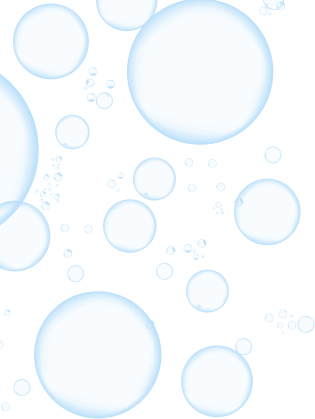
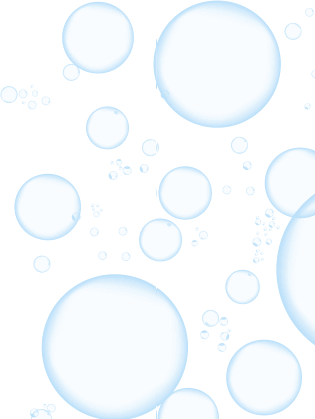
the rest of about sections are done

diff --git a/pages/about.html b/pages/about.html
@@ -11,6 +11,8 @@
         rel="stylesheet">
     <link rel="stylesheet" href="../assets/libs/bootstrap/css/bootstrap.min.css">
     <link rel="stylesheet" href="../assets/libs/font-awesome/css/all.min.css">
+    <link href="https://fonts.googleapis.com/icon?family=Material+Icons+Outlined" rel="stylesheet">
+
     <link rel="stylesheet" href="../general.css">
     <link rel="stylesheet" href="../assets/styles/about.css">
     <title>Blog Details</title>
@@ -18,7 +20,7 @@
 
 <body>
     <!-- know about us section start -->
-    <section class="know-about-us d-flex justify-content-center">
+    <section class="know-about-us d-flex justify-content-center col-12">
         <div class="container">
             <div class="row">
                 <div class="col-12 col-md-6 p-5">
@@ -60,7 +62,7 @@
 
 
                     <div>
-                        <img src="../assets/images/cleaning-img.jpg" alt="cleaning person" srcset="">
+                        <img src="../assets/images/cleaning-img.jpg" alt="cleaning person" srcset="" class="w-100">
                     </div>
                 </div>
             </div>
@@ -68,7 +70,7 @@
     </section>
     <!-- know about us section end -->
     <!-- features section start -->
-    <section class="features ">
+    <section class="features col-12">
         <div class="container d-flex justify-content-center p-5 flex-wrap">
             <div class="col-12 col-lg-4 d-flex justify-content-center align-items-center p-1">
                 <div class="features-card text-center p-5">
@@ -102,6 +104,153 @@
         </div>
     </section>
     <!-- features section end -->
+    <!-- our working experts section start -->
+    <section class="our-working-experts col-12">
+        <div class="container d-flex justify-content-center flex-wrap">
+            <div class="col-12 col-lg-4 d-flex justify-content-center">
+                <div class="d-flex justify-content-center text-center overflow-hidden flex-column p-2 ">
+
+                    <div class="image-container">
+                        <div class="bubble-overlay"></div>
+                        <div class="img-hide overflow-hidden">
+
+                            <img src="../assets/images/team1.png" alt="Person" class="person-image">
+                        </div>
+                    </div>
+                    <h5>worker</h5>
+                    <p>bla bla bla</p>
+                    <div class="d-flex justify-content-center">
+
+                        <i class="fa-brands fa-facebook"></i>
+                        <i class="fa-brands fa-twitter"></i>
+                        <i class="fa-brands fa-linkedin-in"></i>
+                        <i class="fa-brands fa-pinterest"></i>
+                    </div>
+                </div>
+            </div>
+
+            <div class="col-12 col-lg-4 d-flex justify-content-center ">
+                <div class="d-flex justify-content-center text-center overflow-hidden flex-column p-2 ">
+
+                    <div class="image-container">
+                        <div class="bubble-overlay"></div>
+                        <div class="img-hide overflow-hidden">
+
+                            <img src="../assets/images/team1.png" alt="Person" class="person-image">
+                        </div>
+                    </div>
+                    <h5>worker</h5>
+                    <p>bla bla bla</p>
+                    <div class="d-flex justify-content-center">
+
+                        <i class="fa-brands fa-facebook"></i>
+                        <i class="fa-brands fa-twitter"></i>
+                        <i class="fa-brands fa-linkedin-in"></i>
+                        <i class="fa-brands fa-pinterest"></i>
+                    </div>
+                </div>
+            </div>
+
+            <div class="col-12 col-lg-4 d-flex justify-content-center">
+                <div class="d-flex justify-content-center text-center overflow-hidden flex-column p-2 ">
+
+                    <div class="image-container">
+                        <div class="bubble-overlay"></div>
+                        <div class="img-hide overflow-hidden">
+
+                            <img src="../assets/images/team1.png" alt="Person" class="person-image">
+                        </div>
+                    </div>
+                    <h5>worker</h5>
+                    <p>bla bla bla</p>
+                    <div class="d-flex justify-content-center">
+
+                        <i class="fa-brands fa-facebook"></i>
+                        <i class="fa-brands fa-twitter"></i>
+                        <i class="fa-brands fa-linkedin-in"></i>
+                        <i class="fa-brands fa-pinterest"></i>
+                    </div>
+                </div>
+            </div>
+        </div>
+    </section>
+    <!-- our working experts section end -->
+    <!-- how it works section start -->
+    <section class="how-it-works p-5 col-12">
+        <div class="container">
+            <div class="d-flex flex-column align-items-center">
+                <div class="col-6 text-center">
+                    <span class="material-icons-outlined">auto_awesome</span>
+
+
+                    <h3>How It Works</h3>
+                    <p>Perspiciatis unde omnis iste natus error sit voluptatem accusantium dol oremaque
+                        laudantium, totam remeaque ipsa</p>
+                </div>
+                <div class="d-flex justify-content-center align-items-center flex-wrap">
+                    <div class="col-12 col-lg-4 d-flex justify-content-center flex-column align-items-center">
+                        <div class="bubble">
+                            <svg xmlns="http://www.w3.org/2000/svg" width="35" height="35" fill="currentColor"
+                                class="bi bi-calendar-check" viewBox="0 0 16 16">
+                                <path
+                                    d="M10.854 7.146a.5.5 0 0 1 0 .708l-3 3a.5.5 0 0 1-.708 0l-1.5-1.5a.5.5 0 1 1 .708-.708L7.5 9.793l2.646-2.647a.5.5 0 0 1 .708 0" />
+                                <path
+                                    d="M3.5 0a.5.5 0 0 1 .5.5V1h8V.5a.5.5 0 0 1 1 0V1h1a2 2 0 0 1 2 2v11a2 2 0 0 1-2 2H2a2 2 0 0 1-2-2V3a2 2 0 0 1 2-2h1V.5a.5.5 0 0 1 .5-.5M1 4v10a1 1 0 0 0 1 1h12a1 1 0 0 0 1-1V4z" />
+                            </svg>
+                        </div>
+                        <h5>book online</h5>
+                        <p>Perspiciatis unde omnis iste natus error sit voluptatem accusantium dolore</p>
+                    </div>
+
+                    <div class="col-12 col-lg-4 d-flex justify-content-center flex-column align-items-center">
+                        <div class="bubble">
+                            <svg xmlns="http://www.w3.org/2000/svg" width="35" height="35" fill="currentColor"
+                                class="bi bi-envelope" viewBox="0 0 16 16">
+                                <path
+                                    d="M0 4a2 2 0 0 1 2-2h12a2 2 0 0 1 2 2v8a2 2 0 0 1-2 2H2a2 2 0 0 1-2-2zm2-1a1 1 0 0 0-1 1v.217l7 4.2 7-4.2V4a1 1 0 0 0-1-1zm13 2.383-4.708 2.825L15 11.105zm-.034 6.876-5.64-3.471L8 9.583l-1.326-.795-5.64 3.47A1 1 0 0 0 2 13h12a1 1 0 0 0 .966-.741M1 11.105l4.708-2.897L1 5.383z" />
+                            </svg>
+                        </div>
+                        <h5>get confirmation</h5>
+                        <p>Perspiciatis unde omnis iste natus error sit voluptatem accusantium dolore</p>
+
+                    </div>
+
+                    <div class="col-12 col-lg-4 d-flex justify-content-center flex-column align-items-center">
+                        <div class="bubble">
+                            <svg xmlns="http://www.w3.org/2000/svg" width="35" height="35" fill="currentColor"
+                                class="bi bi-emoji-smile" viewBox="0 0 16 16">
+                                <path d="M8 15A7 7 0 1 1 8 1a7 7 0 0 1 0 14m0 1A8 8 0 1 0 8 0a8 8 0 0 0 0 16" />
+                                <path
+                                    d="M4.285 9.567a.5.5 0 0 1 .683.183A3.5 3.5 0 0 0 8 11.5a3.5 3.5 0 0 0 3.032-1.75.5.5 0 1 1 .866.5A4.5 4.5 0 0 1 8 12.5a4.5 4.5 0 0 1-3.898-2.25.5.5 0 0 1 .183-.683M7 6.5C7 7.328 6.552 8 6 8s-1-.672-1-1.5S5.448 5 6 5s1 .672 1 1.5m4 0c0 .828-.448 1.5-1 1.5s-1-.672-1-1.5S9.448 5 10 5s1 .672 1 1.5" />
+                            </svg>
+                        </div>
+                        <h5>Let's enjoy</h5>
+                        <p>Perspiciatis unde omnis iste natus error sit voluptatem accusantium dolore</p>
+
+                    </div>
+                </div>
+            </div>
+    </section>
+    <!-- how it works section end -->
+    <!-- get started section start -->
+    <section class="get-started bg-primary col-12">
+        <div class="container">
+            <div class="d-flex justify-content-center align-items-center flex-wrap">
+                <div class="col-12 col-lg-8 my-2 d-flex justify-content-center align-items-center">
+                    <h3 class="text-white">Get started with your free estimate</h3>
+                </div>
+                <div class="col-12 col-lg-2 my-2 d-flex justify-content-center align-items-center text-center">
+                    <button>Get an Estimate ></button>
+                </div>
+                <div class="d-none d-lg-block col-lg-2 d-flex justify-content-center align-items-center"> <img
+                        src="../assets/images/team2.png" alt="cleaning person" class="w-100"></div>
+            </div>
+        </div>
+    </section>
+    <!-- get started section end -->
+
+
+
 
 
 

diff --git a/assets/styles/about.css b/assets/styles/about.css
@@ -1,4 +1,5 @@
 @import url("general.css");
+
 .know-about-us {
   h2,
   h4 {
@@ -28,10 +29,100 @@
   .features-card {
     background-color: #287ff9;
   }
-  i{
+  i {
     background-color: #14287b;
     border-radius: 50%;
     color: yellow;
     font-size: 2.5rem;
   }
+}
+
+.our-working-experts {
+  .image-container {
+    position: relative;
+    width: 300px;
+    height: 300px;
+    border-radius: 50%;
+
+    background-color: #007bffab;
+  }
+  .img-hide {
+    position: relative;
+    width: 300px;
+    height: 300px;
+    border-radius: 50%;
+    overflow: hidden;
+  }
+  .bubble-overlay {
+    position: absolute;
+    top: -37%;
+    left: -40%;
+    width: 100%;
+    height: 100%;
+    background: url("../images/bubble1.png") no-repeat center center;
+    background-size: cover;
+    z-index: 1;
+  }
+
+  .person-image {
+    position: absolute;
+    top: 50%;
+    left: 50%;
+    width: 100%;
+    height: auto;
+    transform: translate(-50%, -50%);
+    z-index: 2;
+  }
+}
+
+
+.how-it-works{
+  text-align: center;
+  .material-icons-outlined{
+    color: var(--secondary-blue);
+    font-size: 4rem;
+    
+  }
+  h3,h5{
+    color: var(--primary-blue);
+    font-weight: bold;
+    margin-block: 1rem;
+  }
+  p{
+    color: var(--main-paragraph);
+  }
+  .bubble{
+    /* width: 100%; */
+    /* height: 100%; */
+    background: url("../images/rb_43058.png") no-repeat center center;
+    background-size: cover;
+    padding: 7rem ;
+    
+    svg{
+      color: #006aff;
+    }
+  }
+}
+
+
+.get-started{
+  button{
+    background-color: yellow;
+    border: none;
+    padding: 1rem 1.5rem;
+    font-weight: bold;
+    text-wrap: nowrap;
+    
+  }
+  button:hover{
+    background-color: white;
+    color: #006aff;
+    transition: ease-in-out 0.3s;
+  }
+  img{
+    width: 100%;
+    height: 100%;
+    object-fit: cover;
+  }
+
 }
